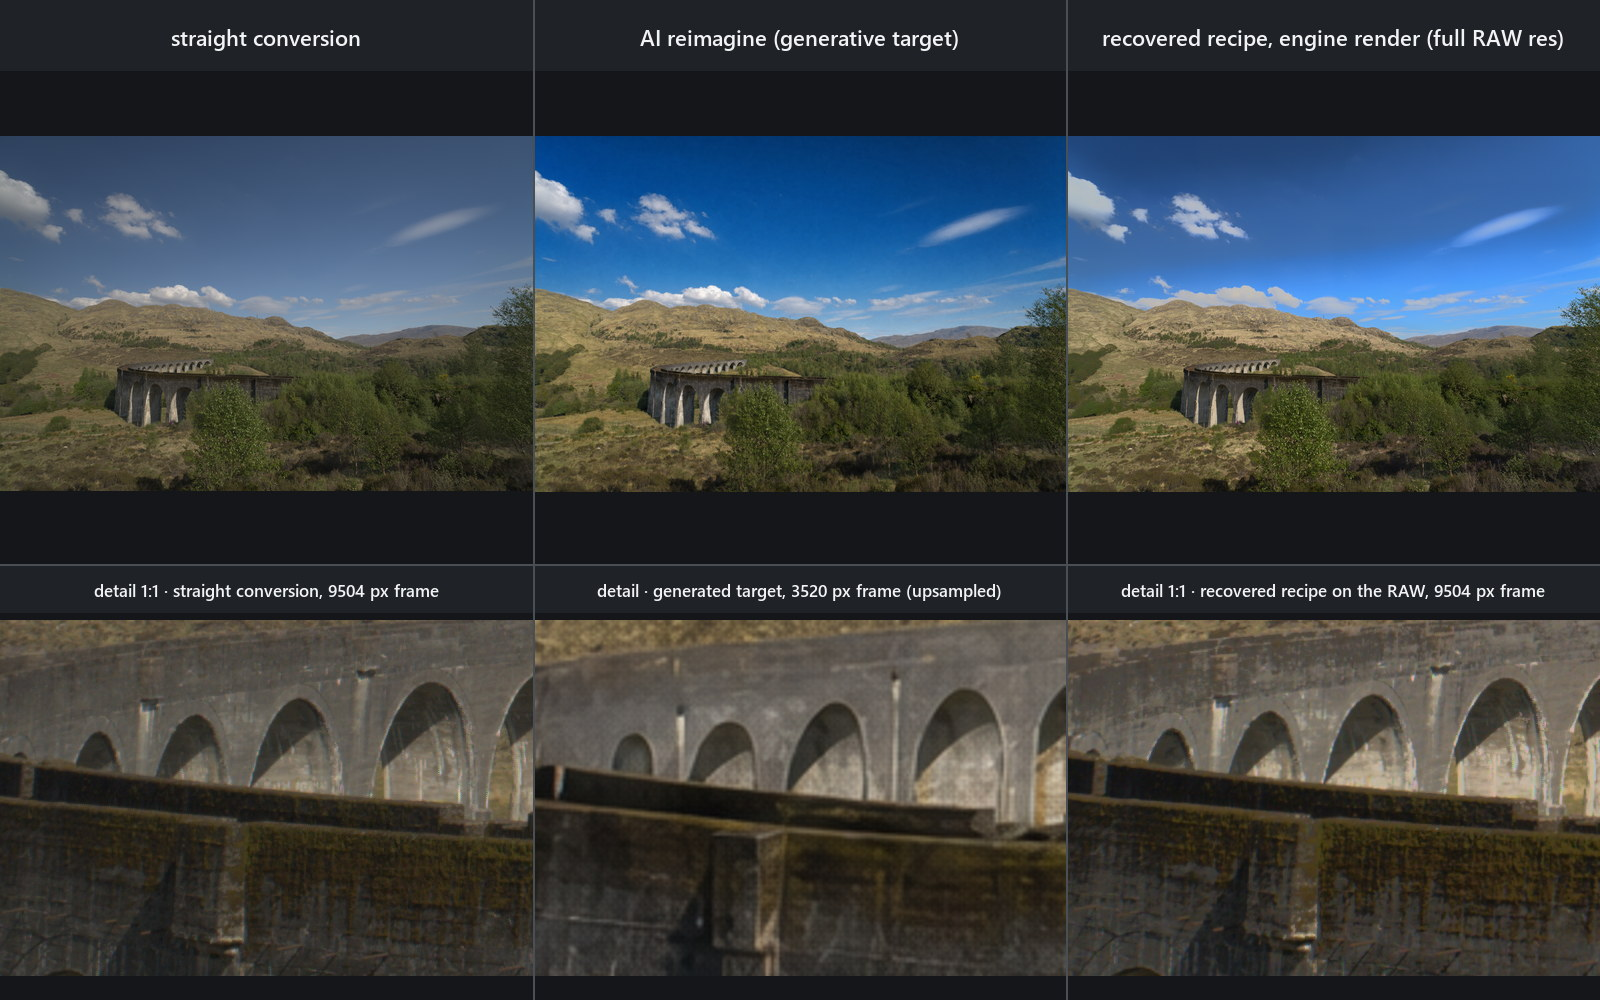
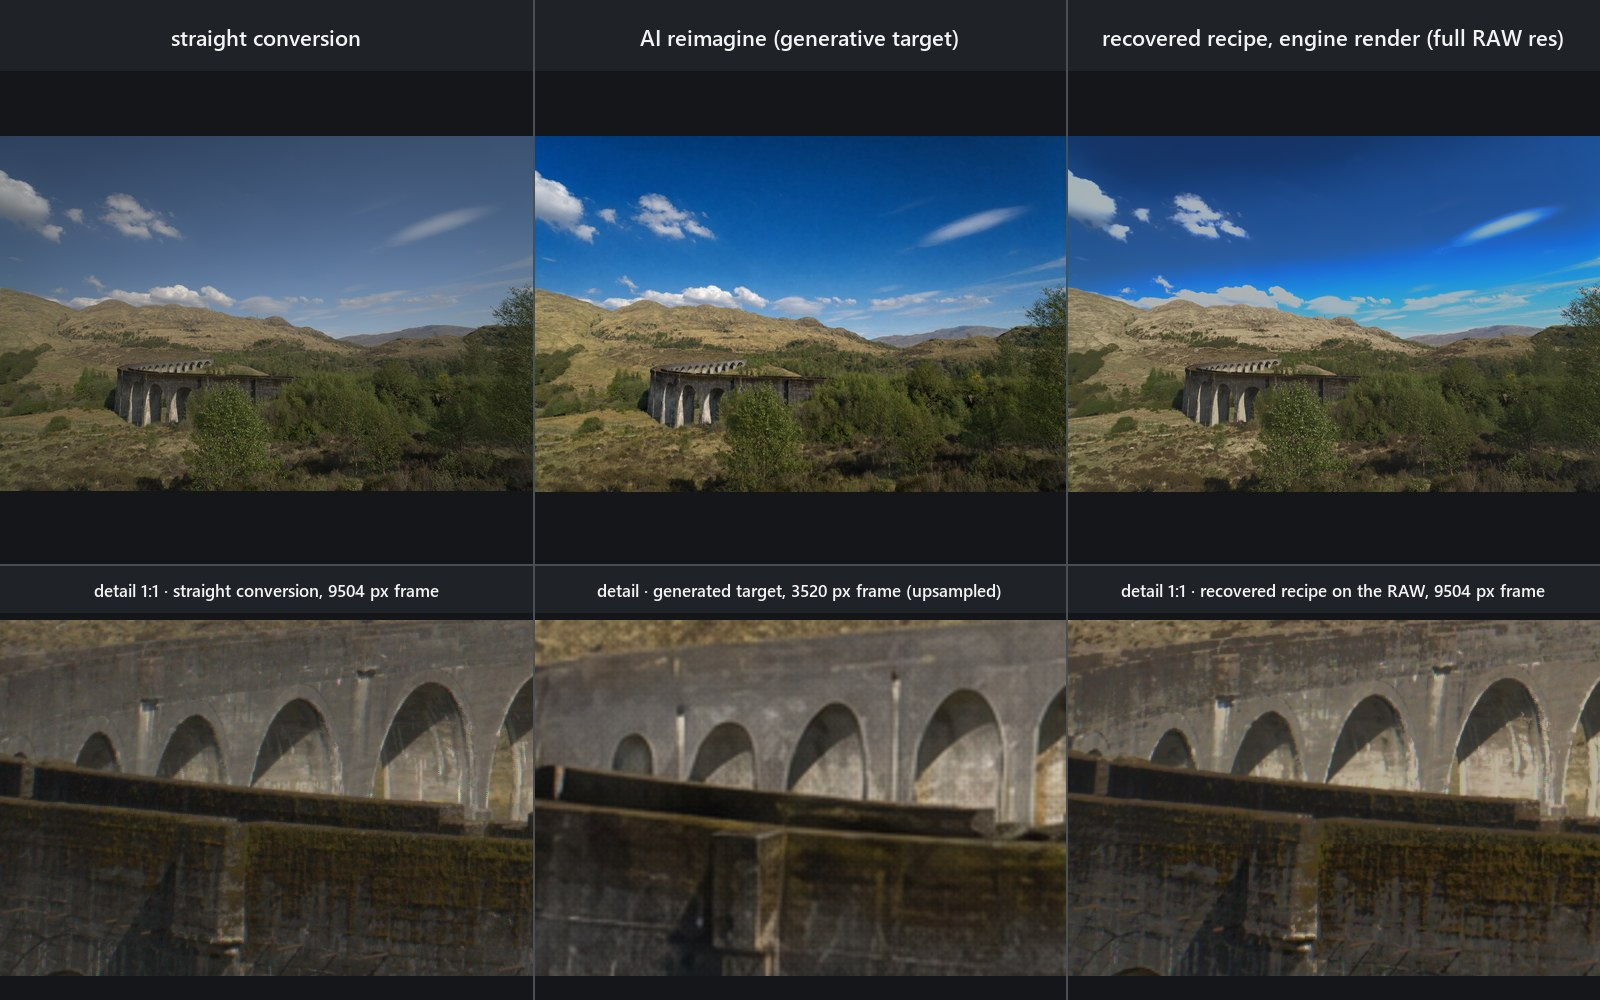
docs+site: the stone-viaduct panel's right column re-rendered at panel Strength 100 % on v1.2.4
The user's question was why the recovered viaduct sky stayed paler than the
generated target. Measured on the top 5-30 % band: the default 65 % fit keeps
the per-band mixer at its 18 cap (sky saturation 0.64 against the target's
0.87), the panel is now the Strength 100 % fit (0.74, value matching the
target): look error 0.161 -> 0.023 at confidence 0.63, cast curves projected
to t = 0.485, mixer at the 45 ceiling, two zones, two tiles, one field mask.
The neutral and target columns are the v1.2.2 composition's frames re-encoded
once, so the calibration pins hold (viaduct D 0.17972 against 0.180, Cornwall
0.13568); both shipped-showcase tests pass. README caption and results row,
SHOWCASE header and caption, and the site figcaption re-pinned; the site image
key moved to ?v=1.2.4.1 because /images/* carries a seven-day max-age. The
default-strength numbers (0.047 at 0.25) and the v1.2.2 seam measurement stay
as their own sentences. check_docs 29 PASS / 0 FAIL / 1 SKIP (census corpus).

diff --git a/site/index.html b/site/index.html
@@ -158,8 +158,8 @@ autoshade apply "photo.ARW" "recipe.json" -o "developed.tif"</code></pre>
       <p class="section-lede">Generate a complete visual target, then fit an ordinary engine recipe to its look. The generated target can invent content; the fitted render cannot. The recovered recipe is editable and can be applied deterministically to the original full-resolution RAW.</p>
 
       <figure class="wide-figure">
-        <img src="images/showcase-viaduct-reverse-fit.jpg?v=1.2.4" width="1600" height="1000" alt="Stone viaduct: straight conversion, generated target, and the recovered recipe rendered on the RAW, with a 1:1 detail row" loading="lazy">
-        <figcaption><strong>Stone viaduct — the recipe carries the look, the RAW carries the detail.</strong> Top row: the straight conversion, a 3520×2352 <code>gpt-image-2</code> target asked for <em>a clearer afternoon, a little more contrast, a slightly deeper blue sky, everything else unchanged</em> (<strong>D = 0.180</strong>, under the 0.35 threshold, so the full solve ran), and the recovered recipe rendered on the 9504×6336 RAW: look error <strong>0.161 → 0.050</strong> through a global solve, a four-band colour mixer, two semantic zones, four boundary-gated tiles and two field masks. Bottom row: the same window of the frame at each source's native resolution. The top-left sky tile is where the v1.2.2 seam fix was measured — cross-boundary step 0.0278 → 0.0042, the delivered seam +3.15 → +0.92 codes on the mask-free ruler. <a href="https://github.com/skymanbp/autoshade/blob/main/docs/SHOWCASE.md">Full measurements →</a></figcaption>
+        <img src="images/showcase-viaduct-reverse-fit.jpg?v=1.2.4.1" width="1600" height="1000" alt="Stone viaduct: straight conversion, generated target, and the recovered recipe rendered on the RAW, with a 1:1 detail row" loading="lazy">
+        <figcaption><strong>Stone viaduct — the recipe carries the look, the RAW carries the detail.</strong> Top row: the straight conversion, a 3520×2352 <code>gpt-image-2</code> target asked for <em>a clearer afternoon, a little more contrast, a slightly deeper blue sky, everything else unchanged</em> (<strong>D = 0.180</strong>, under the 0.35 threshold, so the full solve ran), and the recovered recipe rendered on the 9504×6336 RAW, fitted at panel Strength 100 % (the product default is 65 %): look error <strong>0.161 → 0.023</strong> at confidence 0.63 through a global solve whose cast curves were projected to t = 0.485, a four-band colour mixer at the 45 ceiling, two semantic zones, two boundary-gated tiles and one field mask. Bottom row: the same window of the frame at each source's native resolution. At the default 65 % the same pair fits to 0.047 at confidence 0.25 with the mixer capped at 18, and v1.2.2's fit of it is where the seam fix was measured, on the top-left sky tile — cross-boundary step 0.0278 → 0.0042, the delivered seam +3.15 → +0.92 codes on the mask-free ruler. <a href="https://github.com/skymanbp/autoshade/blob/main/docs/SHOWCASE.md">Full measurements →</a></figcaption>
       </figure>
 
       <figure class="wide-figure">

diff --git a/README.md b/README.md
@@ -147,14 +147,18 @@ Details: [docs/TECH_STACK.md#ai-advisor-and-reverse-fit](docs/TECH_STACK.md#ai-a
 <code>gpt-image-2</code> target asked for <i>a clearer afternoon, a little more
 contrast, a slightly deeper blue sky, everything else unchanged</i>
 (<b>D = 0.180</b>, under the 0.35 threshold, so the full solve ran),
-and the recovered recipe rendered on the 9504×6336 RAW: look error
-<b>0.161 → 0.050</b> through a global solve, a four-band colour mixer, two
-semantic zones, four boundary-gated tiles and two field masks. Bottom row:
-the same window of the frame at each source's native resolution — the recipe
-carries the look, the RAW carries the detail, and the generated frame carries
-neither at full size. The top-left sky tile is where the v1.2.2 seam fix was
-measured: its cross-boundary step 0.0278 → 0.0042, the delivered seam
-+3.15 → +0.92 codes on the mask-free ruler.</sub>
+and the recovered recipe rendered on the 9504×6336 RAW, fitted at panel
+Strength 100 % (the product default is 65 %): look error
+<b>0.161 → 0.023</b> at confidence 0.63 through a global solve whose cast
+curves were projected to t = 0.485, a four-band colour mixer at the 45
+ceiling, two semantic zones, two boundary-gated tiles and one field mask.
+Bottom row: the same window of the frame at each source's native
+resolution — the recipe carries the look, the RAW carries the detail, and
+the generated frame carries neither at full size. At the default 65 % the
+same pair fits to 0.047 at confidence 0.25 with the mixer capped at 18, and
+v1.2.2's fit of it is where the seam fix was measured, on the top-left sky
+tile: cross-boundary step 0.0278 → 0.0042, the delivered seam +3.15 → +0.92
+codes on the mask-free ruler.</sub>
 
 <img src="docs/images/showcase-cornwall-reverse-fit.jpg" alt="Cornwall lighthouse islet: straight conversion, generated target, and the recovered recipe rendered on the RAW, with a 1:1 detail row" />
 
@@ -395,7 +399,7 @@ the tests [`scripts/check_docs.py`](scripts/check_docs.py) re-derives.
 | Roundness (tilted 2:1 ellipse, feather 25/50/75) | Lightroom's R−100/0/+100 exports differ by max\|Δ\| = 0 DN over 26 Mpx; the engine draws one ellipse too | [Masks](#masks) |
 | Brush geometry | D1 error 874 px → 9.8 px after pixel-centre sampling and the pixel/aspect metric | [Masks](#masks) |
 | X-Trans demosaic (approximate) | X-S10 G/R ratio 1.5503 → 0.9476 | [RAW decode](#raw-decode-and-cfa) |
-| Reverse-fit, stone viaduct (full solve) | look error 0.161 → 0.050 at confidence 0.25 (a global solve, the per-band mixer on Orange/Yellow/Aqua/Blue, two semantic zones, four boundary-gated tiles and two field masks), D = 0.180; the sky tile's seam 0.0278 → 0.0042 (k 0.121), delivered +3.15 → +0.92 codes | [What is new §2](#2-reverse-fit-inverse-rendering-from-any-finished-look) |
+| Reverse-fit, stone viaduct (full solve, panel Strength 100 %) | look error 0.161 → 0.023 at confidence 0.63 (a global solve with the cast curves projected to t = 0.485, the per-band mixer on Orange/Yellow/Aqua/Blue at the 45 ceiling, two semantic zones, two boundary-gated tiles and one field mask), D = 0.180; at the default 65 % the pair fits to 0.047 at confidence 0.25 with the mixer capped at 18, four tiles and two field masks, and v1.2.2's fit of it is where the seam fix was measured: sky tile 0.0278 → 0.0042 (k 0.121), delivered +3.15 → +0.92 codes | [What is new §2](#2-reverse-fit-inverse-rendering-from-any-finished-look) |
 | Reverse-fit, Cornwall islet (full solve, composed calibration) | look error 0.137 → 0.027 at confidence 0.66, D = 0.136 sized from the sensor frame (0.304 from the cropped preview); the global cast projected to t = 0.363, delivered sky hue spread 9.6° (v1.2.2 shipped 33.1°) | [docs/SHOWCASE.md](docs/SHOWCASE.md) |
 | Local-field ceiling, calibration pair | global fit 0.0961 against a ceiling of 0.0700; the accepted sky zone realizes 0.134 of the distance | [What is new §7](#7-a-bilateral-grid-local-field-prices-every-local-producer-first) |
 | AI develop, model judge | 2026-09-02 four-looks batch on the full 169 + 94 index at `--style 1.0 --strength 0.9`, the direction leading: moody 68 → 70 → 78 (both adopted) → 69 (discarded), verdict Accept; golden 87 → 84 (discarded) after the verifier twice sent the proposal back for the grain it never set, verdict Revise — unsaved, the figure renders the proposal; vivid 70 → 84 (adopted) → 82 (discarded), verdict Accept. The finished-look-only run (2026-09-01) and v1.2.2's full-index run are on the showcase page | [AI advisor](#ai-advisor-and-reverse-fit) |

diff --git a/docs/SHOWCASE.md b/docs/SHOWCASE.md
@@ -4,8 +4,9 @@ The three figures behind the README's pillars and the frames on
 [autoshade.dev](https://autoshade.dev/#showcase-a), with every number the
 captions quote and the prompts that bought the generated targets. Part A and
 the Cornwall panel were rendered on 2026-09-02 on the v1.2.3 build; the
-stone-viaduct panel is the v1.2.2 render, whose recipe v1.2.3 reproduces byte
-for byte; every frame not marked
+stone-viaduct panel's right column was re-rendered on 2026-09-03 on the v1.2.4
+build at panel Strength 100 %, its other two columns being the v1.2.2
+composition's frames re-encoded once; every frame not marked
 *generated* is rendered by AutoShade's engine from a recipe, and every
 "straight conversion" is AutoShade's own neutral develop of the RAW, not the
 camera JPEG. Model-judge scores are automated review, not human aesthetic
@@ -85,15 +86,25 @@ deeper blue sky, everything else unchanged"</i> — a grade, not a rebuild,
 which is what keeps a generator on the input's structure: <code>reimagine</code>
 measured <b>D = 0.177</b> against the frame it sent, and the calibration test
 that pins this panel re-measures the two top-row frames at
-<b>D = 0.180</b>, under the 0.35 threshold, so the full solve ran.
-Look error <b>0.161 → 0.050</b>: a global tone and saturation solve, the
-per-band colour mixer on four bands (Orange −18/+7, Yellow −18/−5, Aqua
-+18/−18, Blue +18/−18 saturation/luminance), a sky zone (−0.15 EV) and a
-land zone, four boundary-gated spatial tiles and two field masks. Confidence
-0.25, because the target's look also uses controls the fit never solves
-(per-band hue, colour grading, local masks), and the rationale says so. The
-sky tile at top left is the one the v1.2.2 seam fix was measured on: its
-cross-boundary step reads 0.0278 → 0.0042 at k = 0.121 (context-charged
+<b>D = 0.180</b>, under the 0.35 threshold, so the full solve ran. The right
+column is the v1.2.4 fit at panel Strength 100 % (the product default is
+65 %). Look error <b>0.161 → 0.023</b>: a global tone and saturation solve
+whose three cast curves were projected to t = 0.485 (as fitted they would
+have opened a 22.1° hue fan in a class holding 0.210 of the frame's colour),
+the per-band colour mixer at the 45 ceiling (Orange −32/+9, Yellow −45/0,
+Aqua +45/−45, Blue +38/−45 saturation/luminance), a sky zone (−0.16 EV,
+colour gains 0.91 / 1.00 / 1.05, saturation +8; zone residual 0.123 → 0.074)
+and a land zone (0.00 EV, gains 1.01 / 1.00 / 1.00, saturation −4;
+0.014 → 0.009), two boundary-gated spatial tiles (r3c3 and r3c2,
+context-charged 0.0117 and 0.0120 against the 0.012 ceiling) and one field
+mask (frame 0.0242 → 0.0234). Confidence 0.63, read from the two accepted
+zones' worst residual, and the rationale still names what the fit never
+solves (per-band hue, temperature and tint, local masks). At the default
+65 % the same pair fits to 0.047 at confidence 0.25 with the mixer capped at
+18 (Orange −18/+7, Yellow −18/−5, Aqua +18/−18, Blue +18/−18), a sky zone at
+−0.15 EV, four tiles and two field masks; v1.2.2's default-strength fit of
+it is where the seam fix was measured, on the top-left sky tile: its
+cross-boundary step read 0.0278 → 0.0042 at k = 0.121 (context-charged
 0.0116 against the 0.012 ceiling), and the delivered seam on the mask-free
 ruler fell from +3.15 to +0.92 codes.</sub>
 
